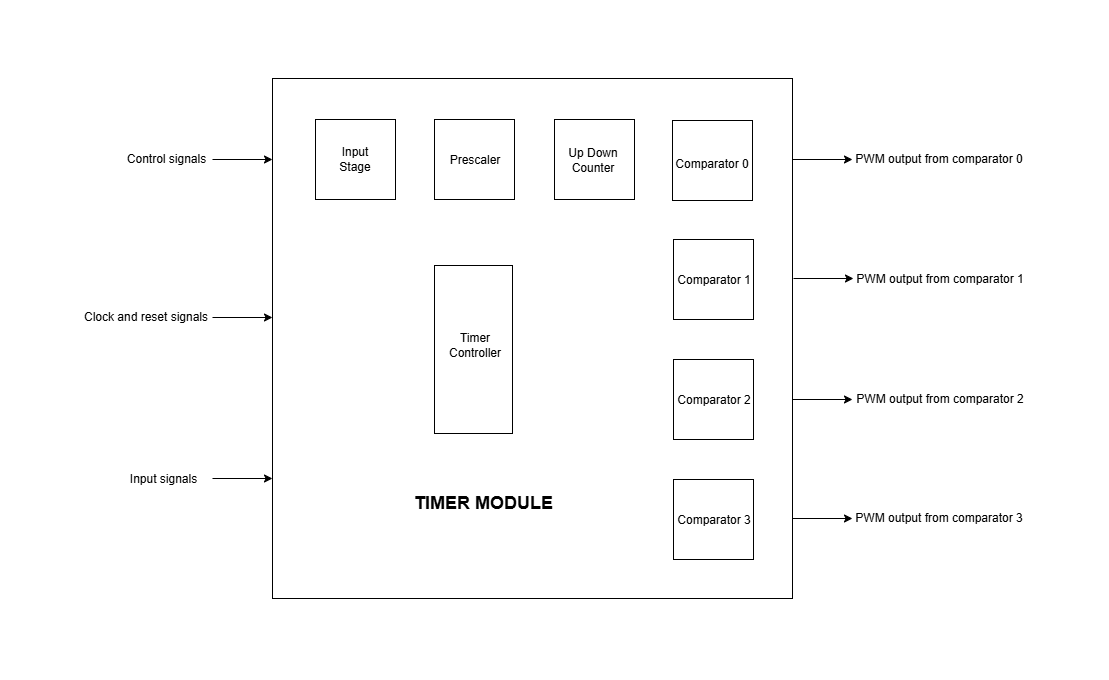
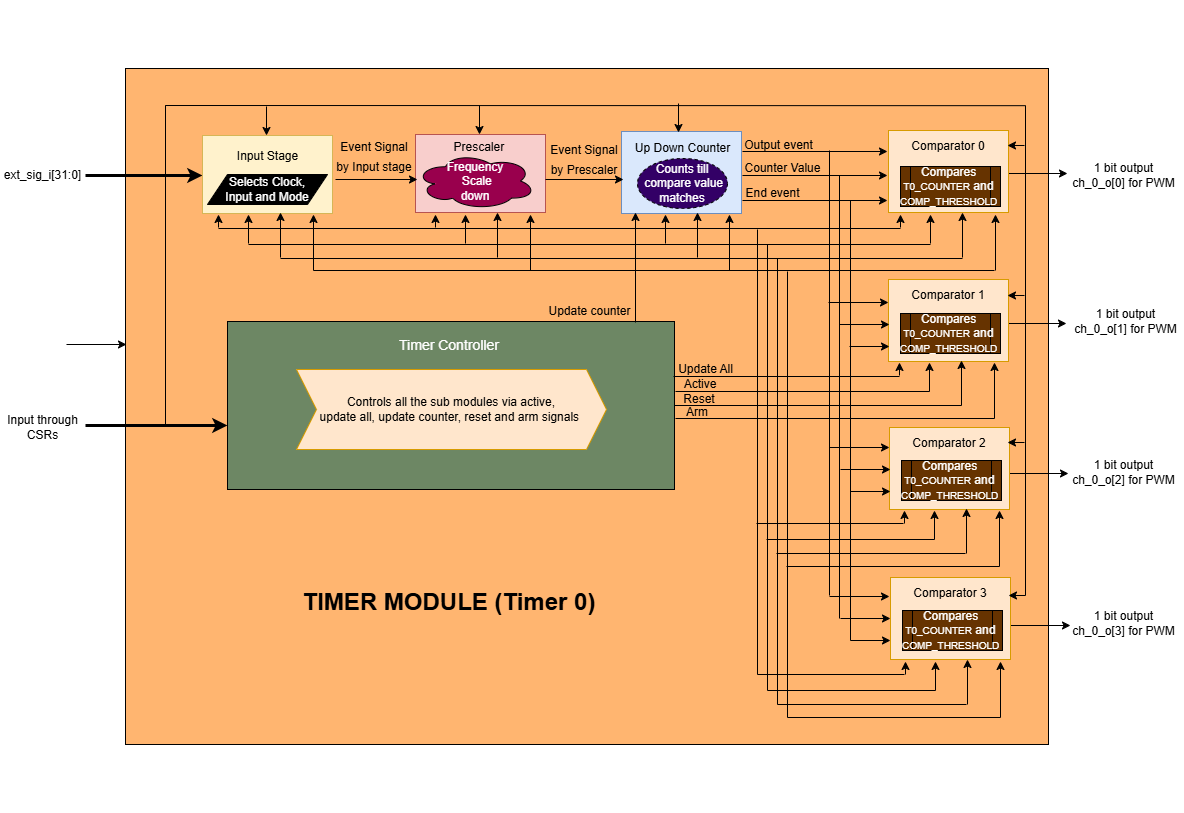
update the APB advanced timer

diff --git a/docs/doc-src/ip-blocks/apb_adv_timer.rst b/docs/doc-src/ip-blocks/apb_adv_timer.rst
@@ -19,8 +19,9 @@
 
 APB Advanced Timer
 ==================
-APB Advanced Timer generates PWM for the Core complex or CPU subsystem by the use of four programmable timers called "channels".
-These four timers can be configured independently to support four unique PWM generation parallely.   
+APB Advanced Timer generates PWM for the external devices connected to CORE_V_MCU by the use of four programmable 16 bit timers called "channels".
+These four timers can be configured independently to support four unique PWM generation parallely.
+Each 16 bit timer has various configurations of input stage, prescaler, updown counter and comparators.    
 
 Features
 --------
@@ -43,8 +44,8 @@ Features
 - 4-bit PWM output for each timer.
 - Configurable clock gating of each timer
 
-Architecture
-------------
+Block Architecture
+------------------
 
 The figure below is a high-level block diagram of the APB Advanced Timer module:-
 
@@ -61,6 +62,7 @@ APB control logic, APB ADVANCED TIMER CSRs and 4 Timer modules
 
 APB control logic
 ~~~~~~~~~~~~~~~~~
+
 The APB control logic interfaces with the APB bus to decode and execute commands.
 It handles CSR reads and writes according to the APB protocol, providing a standardized interface to the system.
 
@@ -82,6 +84,17 @@ APB ADVANCED TIMER CSRs
 
 Timer Module
 ~~~~~~~~~~~~
+
+Timer module's main objective is to generate PWM signal based on the external input/stimulus provided.
+Timer module has various submodules/components like Timer Controller, Input stage, Prescalar, Updown counter and Comparators.
+Timer controller manages all the other submodules through few control signals like active, controller reset and update.
+FW performs Initialization and drives various configuration CSR. 
+
+In order to generate the PWM, the data flows through the following submodule:
+- **(ext_sig_i )** -> input stage -> prescaler ->updown counter ->comparators -> **(PWM)**
+
+
+
 .. figure:: apb_adv_timer_diagram_1.png
    :name: TIMER_Block_Diagram
    :align: center
@@ -89,141 +102,137 @@ Timer Module
 
    TIMER Block Diagram
 
-Introduction
-^^^^^^^^^^^^^
-- Timer module's main objective is to generate PWM signal based on the external input/stimulus provided.
-- Timer module has various submodules/components like Timer Controller, Input stage, Prescalar, Updown counter and Comparators.
-- Timer controller manages all the other submodules through few control signals like active, controller reset and update.
-- FW performs Initialization and drives various configuration CSR. 
-- In order to generate the PWM, the data flows through the following submodule.
-  
-  - **(ext_sig_i )** -> input stage -> prescaler ->updown counter ->comparators -> **(PWM)**
-
 
 Timer Controller
 ^^^^^^^^^^^^^^^^
-- Timer controller generates few important signals like active, update and reset. It parses and controls other sub modules through these signals. 
+Timer controller generates few important signals like active, update and reset. It parses and controls other sub modules through these signals. 
 
-  -  active signal: It is a control signal through which a sub module can either enable or disable its operations.
-  -  update signal: It informs the sub module when to update the latest configured CSR values in order to perform their operations.
-  -  reset signal: It resets the sub modules.
+-  active signal: It is a control signal through which a sub module can either enable or disable its operations.
+-  update signal: It informs the sub module when to update the latest configured CSR values in order to perform their operations.
+-  reset signal: It resets the sub modules.
 
-- The active signal is driven by a different a value in the following conditions. 
+The active signal is driven by a different a value in the below 2 conditions: 
 
-  -  The active signal is driven by value '1', when the START bitfield is '1' in the REG_TIM[0-3]_CMD CSR.
+-  The active signal is driven by value '1', when the START bitfield is '1' in the REG_TIM[0-3]_CMD CSR.
+-  The active signal is driven by value '0'. when the START bitfield is '0' and STOP bitfield is '1' in the REG_TIM[0-3]_CMD CSR. 
 
-  -  The active signal is driven by value '0'. when the START bitfield is '0' and STOP bitfield is '1' in the REG_TIM[0-3]_CMD CSR. 
-
-- The update signal is always driven by the value UPDATE bitfield in the REG_TIM[0-3]_CMD CSR and controller reset signal is driven by the value RESET bitfield in the REG_TIM[0-3]_CMD CSR. 
-- These signals are parsed to all sub modules in the following conditions
+The update signal is always driven by the value UPDATE bitfield in the REG_TIM[0-3]_CMD CSR and controller reset signal is driven by the value RESET bitfield in the REG_TIM[0-3]_CMD CSR. 
+The update and reset signals are parsed to all sub modules for the below 2 conditions:
 
   - if START bitfield is 0 in the REG_TIM[0-3]_CMD CSR.
-
   - if START bitfield is '1' in the REG_TIM[0-3]_CMD CSR and active signal is '1'. When the Timer starts for the first time.
 
 Input Stage
 ^^^^^^^^^^^
-- Input stage receives the input (i.e ext_sig_i and PWM output signals of all the 4 timers) and based on CSR configurations, it selects the clock, input pin and operating mode to generate the output event signal.  
-- Input stage uses the bitfield INSEL in REG_TIM[0-3]_CFG CSR and selects a signal from a set of signals in ext_sig_i.
-- Input stage uses the bitfield CLKSEL in REG_TIM[0-3]_CFG CSR and decides whether the input will be either in sync with the rising edge of the low_speed_clk_i or in sync with the ref clock.
-- At every positive edge of the selected clock and selected input signal, Input stage uses the bitfield MODE in REG_TIM[0-3]_CFG CSR to generate output event signal according to the below information.
 
-  - If MODE is 3’b000
+Input stage receives the input (i.e ext_sig_i and PWM output signals of all the 4 timers) and based on CSR configurations, it selects the clock, input pin and operating mode to generate the output event signal.  
+Input stage uses the bitfield INSEL in REG_TIM[0-3]_CFG CSR and selects a signal from a set of signals in ext_sig_i.
+Input stage uses the bitfield CLKSEL in REG_TIM[0-3]_CFG CSR and decides whether the input will be either in sync with the rising edge of the low_speed_clk_i or in sync with the ref clock.
 
-    - The event is always high
+At every positive edge of the selected clock and selected input signal, Input stage uses the bitfield MODE in REG_TIM[0-3]_CFG CSR to generate output event signal according to the below information:
 
-  - If MODE is 3’b001
+- If MODE is 3’b000
 
-    - The event is sensitive to the negation of the signal selected
+  - The event is always high
 
-  - If MODE is 3’b010
+- If MODE is 3’b001
 
-    - The output event is sensitive to the input signal selected
+  - The event is sensitive to the negation of the signal selected
+
+- If MODE is 3’b010
+
+  - The output event is sensitive to the input signal selected
     
-  - If MODE is 3’b011
+- If MODE is 3’b011
 
-    - The output event is sensitive to the rising edge of the selected signal in sync with the clock.
+  - The output event is sensitive to the rising edge of the selected signal in sync with the clock.
 
-  - If MODE is 3’b100
+- If MODE is 3’b100
 
-    - The output event is sensitive to the falling edge of the selected signal in sync with the clock.
+  - The output event is sensitive to the falling edge of the selected signal in sync with the clock.
 
-  - If MODE is 3’b101
+- If MODE is 3’b101
 
-    - The output event is sensitive to both rising edge and falling edge of the selected signal in sync with the clock.
+  - The output event is sensitive to both rising edge and falling edge of the selected signal in sync with the clock.
 
-  - If MODE is 3’b110
+- If MODE is 3’b110
 
-    - If the timer is armed ,i,e,the CSR ARM is high then the event is made high for the rising edge of the selected signal and remains the same until the next rising edge of the signal.If ARM CSR is low,then the output event is low forever.
+  - If the timer is armed ,i,e,the CSR ARM is high then the event is made high for the rising edge of the selected signal and remains the same until the next rising edge of the signal.If ARM CSR is low,then the output event is low forever.
 
-  - If MODE is 3’b111
+- If MODE is 3’b111
 
-    - If the timer is armed ,i,e,the CSR ARM is high then the event is made high for the falling edge of the selected signal and remains the same until the next falling edge of the signal.If ARM CSR is low,then the output event is low forever.
+  - If the timer is armed ,i,e,the CSR ARM is high then the event is made high for the falling edge of the selected signal and remains the same until the next falling edge of the signal.If ARM CSR is low,then the output event is low forever.
 
 Prescalar
 ^^^^^^^^^
-- Prescaler scales down the high frequency input signal to low frequency output signal by using the prescaler value. 
-- The PRESC bitfield in the REG_TIM[0-3]_CFG CSR is parsed to Prescaler and the output event signal generated in the previous input stage is scaled based on the PRESC value.
-- Prescaler module maintains a internal counter whose initial value is 0. At every positive edge of the clock, counter gets incremented by '1' when event input signal is '1' and Timer is active.
-- When the internal counter value matches with the PRESC bitfield output event is set to '1' at positive edge of the clock(the frequency is scaled according to the PRESC CSR value) and the counter is updated to '0'. The above process continues and output events are generated.
-- Both the counter and output event is set to 0. When either the hard reset is triggered or when Timer controller parses the RESET bitfield which is set to '1'.
+Prescaler scales down the high frequency input signal to low frequency output signal by using the prescaler value. 
+
+The PRESC bitfield in the REG_TIM[0-3]_CFG CSR is parsed to Prescaler and the output event signal generated in the previous input stage is scaled based on the PRESC value.
+Prescaler module maintains a internal counter whose initial value is 0. At every positive edge of the clock, counter gets incremented by '1' when event input signal is '1' and Timer is active.
+When the internal counter value matches with the PRESC bitfield output event is set to '1' at positive edge of the clock (the frequency is scaled according to the PRESC CSR value) and the counter is updated to '0'.
+The above process continues and output events are generated.
+
+Both the counter and output event is set to 0. When either the hard reset is triggered or when Timer controller parses the RESET bitfield which is set to '1'.
 
 Updown counter
 ^^^^^^^^^^^^^^
-- Updown counter manages the timer counter values based on CSR configurations and generates the following outputs: counter value, end event and the output event.
-- The output event generated from prescaler sub module is provided as the input for the updown counter. At every positive edge of the clock, if the active signal is '1' then output event is driven by the value of output event generated from prescaler.
-- The active, controller reset and update signals are provided by the Timer controller.  
-- Updown counter maintains a counter and direction(0- up and 1- down).
-- During the initialization, counter value is set to COUNT_START and direction to 0 and any new values of SAWTOOTH, COUNT_START and COUNT_END bitfield can be provided by FW. 
-- At every positive edge of the clock, if output event generated from prescaler is '1' and active sigmal is '1' then the following operation is performed.
+Updown counter manages the timer counter values based on CSR configurations and generates the following outputs: counter value, end event and the output event.
 
-  - if the SAWTOOTH bitfield is '1':
+The output event generated from prescaler sub module is provided as the input for the updown counter.
+At every positive edge of the clock, if the active signal is '1' then output event is driven by the value of output event generated from prescaler.
+The active, controller reset and update signals are provided by the Timer controller.  
+Updown counter maintains a counter and direction(0- up and 1- down).
+During the initialization, counter value is set to COUNT_START and direction to 0 and any new values of SAWTOOTH, COUNT_START and COUNT_END bitfield can be provided by FW. 
+At every positive edge of the clock, if output event generated from prescaler is '1' and active sigmal is '1' then the following operation is performed.
 
-    - The counter is incremented till it reaches the value of COUNT_END, then an end event is generated.
+- if the SAWTOOTH bitfield is '1':
 
-    - The counter is resetted back to value of COUNT_START bitfield and this process is repeated to generate multiple end events. 
+  - The counter is incremented till it reaches the value of COUNT_END, then an end event is generated.
+
+  - The counter is resetted back to value of COUNT_START bitfield and this process is repeated to generate multiple end events. 
  
-  - if the SAWTOOTH bitfield is '0':
+- if the SAWTOOTH bitfield is '0':
 
-    - The counter is incremented till it reaches the value of COUNT_END.
+  - The counter is incremented till it reaches the value of COUNT_END.
 
-    - Then the counter is decremented till it reaches the value of COUNT_START. (counter goes in a sawtooth fashion)
+  - Then the counter is decremented till it reaches the value of COUNT_START. (counter goes in a sawtooth fashion)
 
-    - Now, an end event is generated. this process is repeated to generate multiple end events.
+  - Now, an end event is generated. this process is repeated to generate multiple end events.
 
-- Re-Initialization of the Updown counter can be done in the following scenarios.
+Re-Initialization of the Updown counter can be done in the following scenarios.
 
-  - Update signal is '1' and the below conditions are met:
+- Update signal is '1' and the below conditions are met:
 
     - When the controller is inactive (active signal is '0'). 
 
     - When an end event is generated. 
+    
+    - If update signal is '1' and above two conditions are not met, then upcounter counter is re-initialized when the next end event is generated, irrespective of update signal value at that instance of time. 
 
-  - If update signal is '1' and above two conditions are not met, then upcounter counter is re-initialized when the next end event is generated, irrespective of update signal value at that instance of time. 
+- Reset signal is '1'.
 
-  - Reset signal is '1'.
-
-- At every positive edge of the clock, The counter value is updated in the REG_TIM[0-3]_COUNTER.
-- If the hard reset is '0', then the all the CSR and internal meta data is set to the reset values.
+At every positive edge of the clock, The counter value is updated in the REG_TIM[0-3]_COUNTER. 
+If the hard reset is '0', then the all the CSR and internal meta data is set to the reset values.
 
 Comparator
 ^^^^^^^^^^
-- Each timer has 4 comparators that can act independently and each comapartor generates a 1 bit PWM output.
-- Comparator compares the timer counter value with compare value and based on CSR configurations of output mode generates a PWM output.
-- The counter value, end event and the output event generated in the updown counter are provided as input to the comparator. 
-- The active, controller reset and update signals are provided by the Timer controller.
-- COMP_THRESHOLD and COMP_OP can only be updated and used by the comparator. when the update signal is '1'. 
-- At every positive edge of the clock, when the output event coming out of the up down counter is '1' and active signal is '1', comparator checks for the following two internal events that can happen, 
+Each timer has 4 comparators that can act independently and each comapartor generates a 1 bit PWM output.
+Comparator compares the timer counter value with compare value and based on CSR configurations of output mode generates a PWM output.
+The counter value, end event and the output event generated in the updown counter are provided as input to the comparator. 
+The active, controller reset and update signals are provided by the Timer controller.
+COMP_THRESHOLD and COMP_OP can only be updated and used by the comparator. when the update signal is '1'. 
 
-  - **(match_event)** is set to '1' when timer counter value reaches the comparator offset 
+At every positive edge of the clock, when the output event coming out of the up down counter is '1' and active signal is '1', comparator checks for the following two internal events that can happen, 
 
-  - **(event_2)** set to '1' in the following two scenarios:
+- **(match_event)** is set to '1' when timer counter value reaches the comparator offset 
 
-    - When the SAWTOOTH bitfield is '1' and end event is '1'.
+- **(event_2)** set to '1' in the following two scenarios:
 
-    - When SAWTOOTH is bitfield is '0' and the timer counter value reaches the COMP_THRESHOLD. 
+  - When the SAWTOOTH bitfield is '1' and end event is '1'.
 
-- Then, based on the match_event, event_2 and COMP_OP value, PWM output is generated accordingly.
+  - When SAWTOOTH is bitfield is '0' and the timer counter value reaches the COMP_THRESHOLD. 
+
+Then, based on the match_event, event_2 and COMP_OP value, PWM output is generated after following operation is performed.
 
 - If COMP_OP value is 3'b000 (OP_SET) 
   
@@ -352,33 +361,33 @@ Comparator
       - The PWM output is made high
       - event_2 is made low.
 
-- By default the PWM output remains the same (state remains same until further change in input) and event_2 is kept low.
-- The PWM output is set to 0. When either the hard reset is triggered or controller reset is '1'.
+By default the PWM output remains the same (state remains same until further change in input) and event_2 is kept low.
+The PWM output is set to 0. When either the hard reset is triggered or controller reset is '1'.
 
 
 Working of APB Advanced Timer for PWM generation:
 ~~~~~~~~~~~~~~~~~~~~~~~~~~~~~~~~~~~~~~~~~~~~~~~~~
 
 Based on the detailed working of the submodules above, the working of the APB Advanced timer can be summarised as:
-- FW initialization is performed and the external input/stimulus ext_sig_i is provided.
-- For each Timer module, at every positive edge of the selected clock and when the timer is active, the following operation is performed.
+FW initialization is performed and the external input/stimulus ext_sig_i is provided.
+For each Timer module, at every positive edge of the selected clock and when the timer is active, the following operation is performed:
 
-  - Input stage consumes 48 bit (i.e ext_sig_i and PWM output signals of all the 4 timers) and processes it accordingly based on CLKSEL, INSEL and MODE. Event signal is generated as per the working of input stage.
+- Input stage consumes 48 bit (i.e 32 bit ext_sig_i and 16 bit PWM output signals of all the 4 timers) and processes it accordingly based on CLKSEL, INSEL and MODE. Event signal is generated as per the working of input stage.
 
-  - The Event signal generated in the input stage is scaled down to output scaled event based on the prescaler value by prescaler sub module.
+- The Event signal generated in the input stage is scaled down to output scaled event based on the prescaler value by prescaler sub module.
 
-  - The above output scaled events generated go to the up down counter.
+- The above output scaled events generated go to the up down counter.
 
-  - Depending on various FW configurations of SAWTOOTH, COUNT_START and COUNT_END. The counter value, end event and the output event are generated in the updown counter and are provided as input to the 4 comparators.
+- Depending on various FW configurations of SAWTOOTH, COUNT_START and COUNT_END. The counter value, end event and the output event are generated in the updown counter and are provided as input to the 4 comparators.
 
-  - In each of the comparator, counter value is compared against the COMP_THRESHOLD and 1 bit PWM is generated based on COMP_OP.
+- In each of the comparator, counter value is compared against the COMP_THRESHOLD and 1 bit PWM is generated based on COMP_OP.
 
-  - 4 comparator submodules generate 4 bit PWM signal
+- 4 comparator submodules generate 4 bit PWM signal
 
-  - This above process is repeated with respect to change in the FW configurations to generate the PWM signal.
+- This above process is repeated with respect to change in the FW configurations to generate the PWM signal.
 
-- APB Advanced Timer has 4 timer modules which can generate 4 independent 4-bit PWMs
-- Apart from the PWM signal, APB Advanced Timer also generates output events based on the OUT_SEL_EVT_ENABLE and OUT_SEL_EVT1 bitfiels of REG_EVENT_CFG CSR.
+APB Advanced Timer has 4 timer modules which can generate 4 independent 4-bit PWMs
+Apart from the PWM signal, APB Advanced Timer also generates output events based on the OUT_SEL_EVT_ENABLE and OUT_SEL_EVT1 bitfiels of REG_EVENT_CFG CSR.
 
 System Architecture:
 --------------------
@@ -1682,27 +1691,27 @@ The figure below represents the input and output pins for the APB Advanced Timer
 
 Clock and Reset Signals
 ~~~~~~~~~~~~~~~~~~~~~~~
-  - HCLK: System clock input
-  - HRESETn: Active-low reset input
+- HCLK: System clock input
+- HRESETn: Active-low reset input
 
 APB Interface Signals
 ~~~~~~~~~~~~~~~~~~~~~
-  - PADDR[11:0]: APB address bus input
-  - PSEL: APB peripheral select input
-  - PENABLE: APB enable input
-  - PWRITE: APB write control input (high for write, low for read)
-  - PWDATA[31:0]: APB write data bus input
-  - PREADY: APB ready output to indicate transfer completion
-  - PRDATA[31:0]: APB read data bus output
-  - PSLVERR: APB slave error
+- PADDR[11:0]: APB address bus input
+- PSEL: APB peripheral select input
+- PENABLE: APB enable input
+- PWRITE: APB write control input (high for write, low for read)
+- PWDATA[31:0]: APB write data bus input
+- PREADY: APB ready output to indicate transfer completion
+- PRDATA[31:0]: APB read data bus output
+- PSLVERR: APB slave error
 
 APB Advanced Timer Interface Signals
 ~~~~~~~~~~~~~~~~~~~~~~~~~~~~~~~~~~~~
-  - df_cg_enable_i: clock gate enable input
-  - low_speed_clk_i: Low speed external clock input
-  - ext_sig_i[31:0]: 32 bit GPIO input
-  - events_o[3:0]: Output events from all the 4 timers
-  - ch_0_o[3:0]: PWM output from Timer 0
-  - ch_1_o[3:0]: PWM output from Timer 1
-  - ch_2_o[3:0]: PWM output from Timer 2
-  - ch_3_o[3:0]: PWM output from Timer 3
+- df_cg_enable_i: clock gate enable input
+- low_speed_clk_i: Low speed external clock input
+- ext_sig_i[31:0]: 32 bit GPIO input
+- events_o[3:0]: Output events from all the 4 timers
+- ch_0_o[3:0]: PWM output from Timer 0
+- ch_1_o[3:0]: PWM output from Timer 1
+- ch_2_o[3:0]: PWM output from Timer 2
+- ch_3_o[3:0]: PWM output from Timer 3
